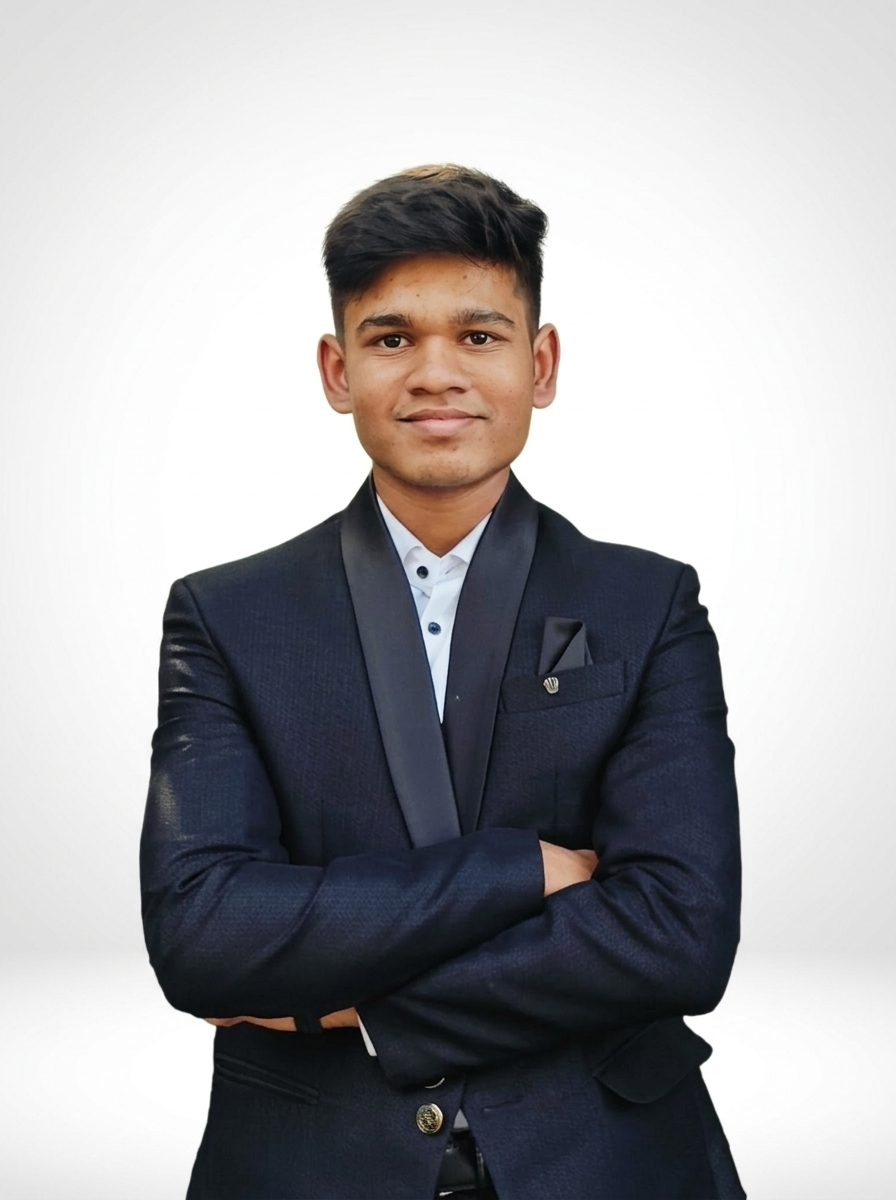
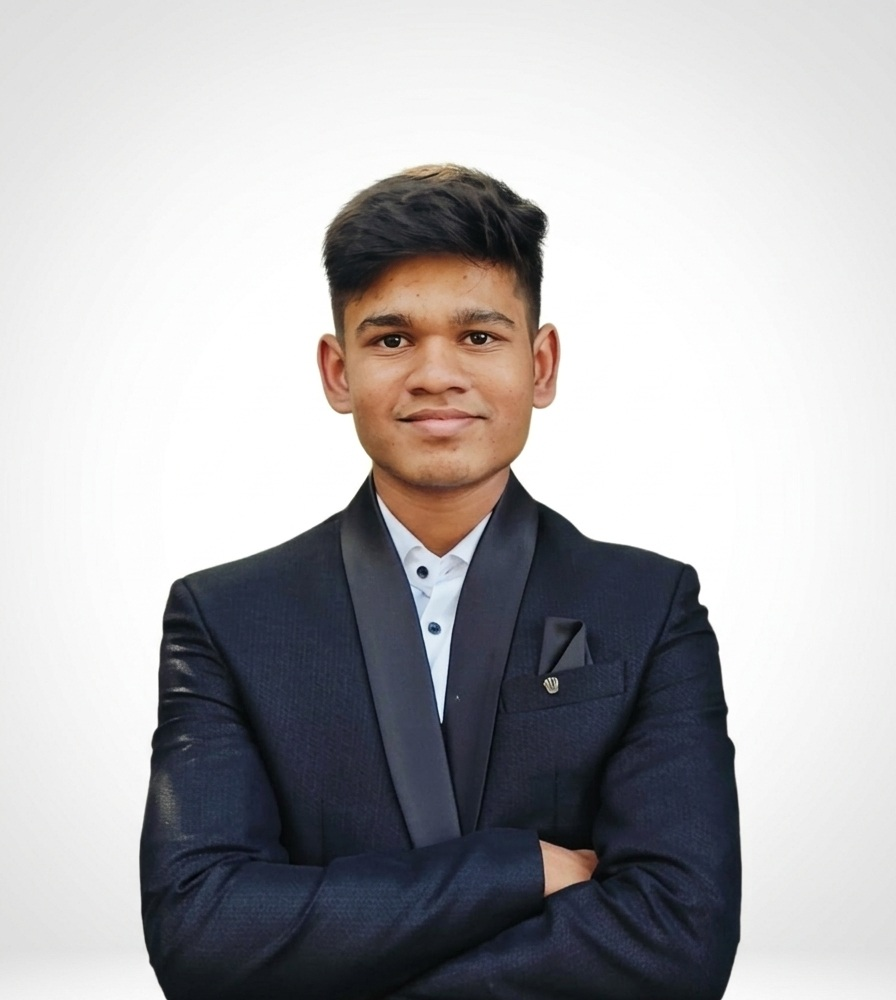
feat(hero): crop portrait slightly from bottom to terminate just below crossed hands

Changed region(s): [[0.1562, 0.124, 0.8438, 1.0], [0.9062, 0.899, 0.9375, 0.93], [0.0, 0.899, 0.0312, 0.93]]

diff --git a/index.html b/index.html
@@ -19,7 +19,7 @@
   <link rel="dns-prefetch" href="https://fonts.googleapis.com">
   <link rel="dns-prefetch" href="https://fonts.gstatic.com">
   <link rel="dns-prefetch" href="https://ajax.googleapis.com">
-  <link rel="preload" as="image" href="assets/profile.jpg?v=2.0" fetchpriority="high">
+  <link rel="preload" as="image" href="assets/profile.jpg?v=3.0" fetchpriority="high">
   <link href="https://fonts.googleapis.com/css2?family=Inter:wght@300;400;500;600;700;800&family=JetBrains+Mono:wght@300;400;500;700&display=swap" rel="stylesheet">
   <link rel="stylesheet" href="styles.css?v=23.0">
 </head>
@@ -117,7 +117,7 @@
               <div class="hud-corner top-right"></div>
               <div class="hud-corner bottom-left"></div>
               <div class="hud-corner bottom-right"></div>
-              <img src="assets/profile.jpg?v=2.0" alt="Harshal Gadekar" class="hud-avatar-img" width="310" height="415" loading="eager" fetchpriority="high" decoding="async">
+              <img src="assets/profile.jpg?v=3.0" alt="Harshal Gadekar" class="hud-avatar-img" width="310" height="346" loading="eager" fetchpriority="high" decoding="async">
               <div class="hud-avatar-telemetry font-mono">
                 <span class="status-pulse-dot"></span>
                 <span>HARSHAL GADEKAR // LEAD_RESEARCHER</span>
